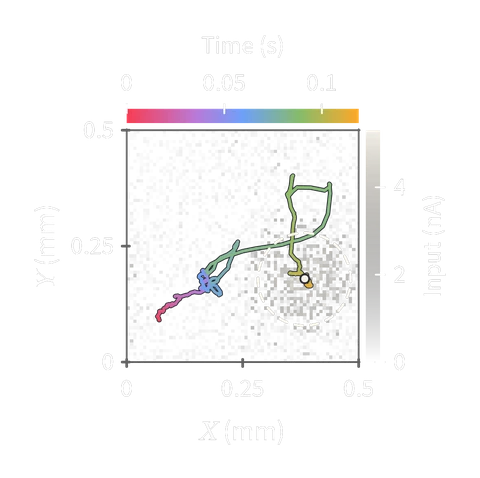
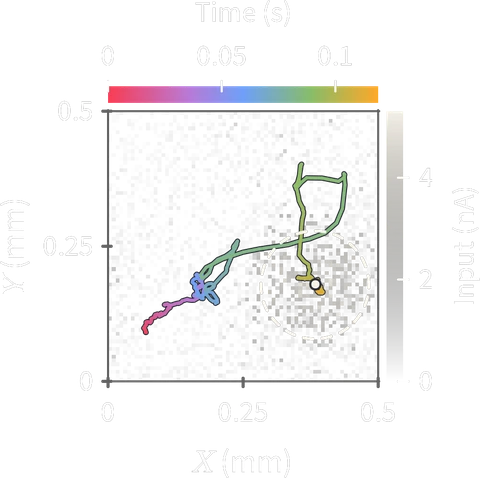
Crop padding from Fig 1d cover; featured image cell at least 12.5rem

diff --git a/assets/css/site.css b/assets/css/site.css
@@ -403,7 +403,7 @@ main {
   position: relative;
   align-self: stretch;
   border: none;
-  min-height: 10rem;  /* the row is otherwise only as tall as its text; figure panels need more */
+  min-height: 12.5rem;  /* the row is otherwise only as tall as its text; figure panels need more */
   display: flex;
   align-items: center;
   justify-content: center;
